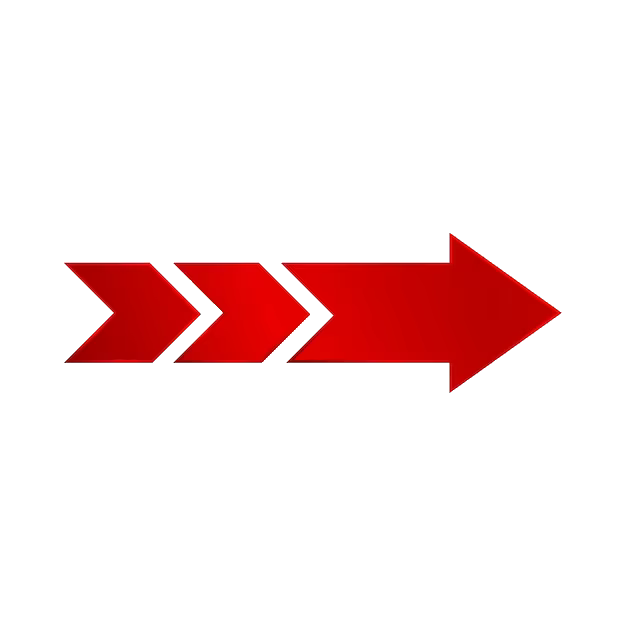
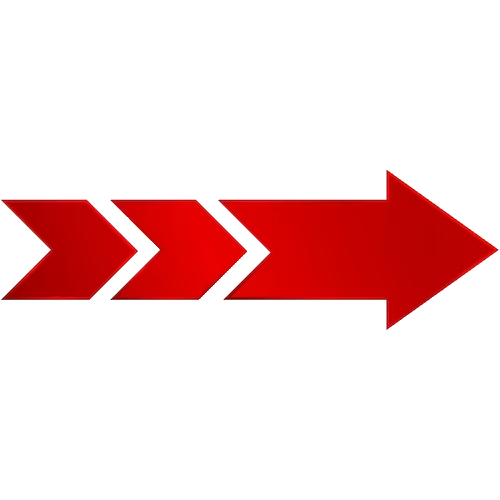
Improve arrow

Changed region(s): [[0.0, 0.33, 1.0, 0.66]]

diff --git a/PleaseTanks/main.cpp b/PleaseTanks/main.cpp
@@ -108,11 +108,15 @@ int main()
     new Tree({120.f, 120.f}, {450.f, 300.f});
     new Tree({130.f, 130.f}, {600.f, 350.f});
     
+    int offsetDragFrames = 15;
+    int counterDragFrames = 0;
+    
     UnitHud unitHud;
     
     PressedButtons buttons;
     
     while (window.isOpen()) {
+        
         sf::Event event;
         while (window.pollEvent(event))
         {
@@ -127,14 +131,17 @@ int main()
                     const CombatUnit* selectedUnit = gameplay.getSelected();
                     unitHud.setSelectedUnit(selectedUnit);
                     
-                    buttons.drag.isDragging = true;
-                    buttons.drag.start = point;
+                    counterDragFrames++;
                 }
             } else if (event.type == sf::Event::MouseButtonReleased) {
-                if (event.mouseButton.button == sf::Mouse::Left && buttons.drag.isDragging) {
-                    buttons.drag.isDragging = false;
-                    buttons.drag.isFinish = true;
-                    buttons.drag.current = sf::Vector2f(event.mouseButton.x, event.mouseButton.y);
+                if (event.mouseButton.button == sf::Mouse::Left) {
+                    if (buttons.drag.isDragging) {
+                        buttons.drag.isDragging = false;
+                        buttons.drag.isFinish = true;
+                        buttons.drag.current = sf::Vector2f(event.mouseButton.x, event.mouseButton.y);
+                    }
+                    
+                    counterDragFrames = 0;
                 }
             }
             if (event.type == sf::Event::Closed)
@@ -209,7 +216,13 @@ int main()
                 }
             }
         }
-        
+        if (counterDragFrames > 0)
+            counterDragFrames++;
+    
+        if (counterDragFrames == offsetDragFrames) {
+            buttons.drag.isDragging = true;
+            buttons.drag.start = sf::Vector2f(sf::Mouse::getPosition(window));
+        }
         if (buttons.drag.isDragging) {
             buttons.drag.current = sf::Vector2f(sf::Mouse::getPosition(window));
         }
@@ -224,7 +237,11 @@ int main()
         }
 
         gameplay.handleControls(buttons);
-        buttons.drag.isFinish = false;
+        
+        if (buttons.drag.isFinish) {
+//            counterDragFrames = 0;
+            buttons.drag.isFinish = false;
+        }
 
         Drawable::updateDrawables();
         PhysicsBody::updatePhysicsBodys();

diff --git a/PleaseTanks/Gun.cpp b/PleaseTanks/Gun.cpp
@@ -15,7 +15,7 @@ Gun::Gun(GunParams&& params) :
     PhysicsBody(params.sizePhysics),
     Health(params.hp, params.armour),
     Drawable(params.sizeImage, 3.f, SpriteNames::guns, params.spriteIndex),
-    gunParams(std::move(params)), dragging(false), arrowAim({60.f, 60.f}, 6, SpriteNames::arrow, 0)
+    gunParams(std::move(params)), dragging(false), arrowAim({20.f, 60.f}, 6, SpriteNames::arrow, 0)
 {
     setPosition(&centerWorld, &rotation);
     setLocalRotationCenter(gunParams.centerPhysics);
@@ -106,6 +106,10 @@ void Gun::update() {
 }
 
 void Gun::handleDrag(sf::Vector2f deltaDrag, bool isFinished) {
+    if ((gunParams.primaryWeapon == nullptr || !gunParams.primaryWeapon->isDraggable) &&
+        (gunParams.secondaryWeapon == nullptr || !gunParams.secondaryWeapon->isDraggable))
+        return;
+    
     float currentAngle = rect.getRotation() + 90.f;
     if (currentAngle >= 360.f)
         currentAngle = currentAngle - 360.f;
@@ -117,9 +121,8 @@ void Gun::handleDrag(sf::Vector2f deltaDrag, bool isFinished) {
     float maxDrag = 200.f;
     float dragDistance = std::min(maxDrag,Utils::getLength(deltaDrag));
     float minScale = 1.f;
-    float maxScale = 2.f;
+    float maxScale = 6.f;
     float arrowLength = minScale + maxScale * (dragDistance / maxDrag);
-    
     
     arrowAim.setScale({arrowLength, 1.f});
     arrowAim.setVisible(true);
@@ -129,8 +132,6 @@ void Gun::handleDrag(sf::Vector2f deltaDrag, bool isFinished) {
     sf::Vector2f pos = centerWorld() + deltaPos;
     
     arrowAim.setPosition(pos, currentRotation - 90);
-    
-        
         
     if (!isFinished) {
         if (!dragging) {
@@ -141,8 +142,10 @@ void Gun::handleDrag(sf::Vector2f deltaDrag, bool isFinished) {
     
     dragging = false;
     arrowAim.setVisible(false);
-//    rect.setFillColor(sf::Color(255, 255, 255, 255));
     
     float velocityScalar = Utils::getLength(deltaDrag);
-    attackPrimary(velocityScalar);
+    if (gunParams.primaryWeapon->isDraggable)
+        attackPrimary(velocityScalar);
+    else if (gunParams.secondaryWeapon->isDraggable)
+        attackPrimary(velocityScalar);
 }

diff --git a/PleaseTanks/AssetManager.cpp b/PleaseTanks/AssetManager.cpp
@@ -32,7 +32,7 @@ AssetManager::AssetManager() {
     spriteSheets.insert_or_assign(SpriteNames::smokeDense, new SpriteSheet({4, 4, imagesPath + "smokeDense.png", sf::Vector2f({256.f, 256.f}), 1.f}));
     spriteSheets.insert_or_assign(SpriteNames::blood, new SpriteSheet({6, 1, imagesPath + "blood.png", sf::Vector2f({128.f, 128.f}), 1.f}));
     spriteSheets.insert_or_assign(SpriteNames::icons, new SpriteSheet({8, 8, imagesPath + "icons.png", sf::Vector2f({128.f, 128.f}), 1.f}));
-    spriteSheets.insert_or_assign(SpriteNames::arrow, new SpriteSheet({1, 1, imagesPath + "arrow.png", sf::Vector2f({626.f, 626.f}), 1.f}));
+    spriteSheets.insert_or_assign(SpriteNames::arrow, new SpriteSheet({1, 1, imagesPath + "arrow.png", sf::Vector2f({500.f, 500.f}), 1.f}));
 
     loadSoundBuffer(SoundNames::movingTank, "movingTank.mp3");
     loadSoundBuffer(SoundNames::damagedTank, "damagedTank.mp3");
